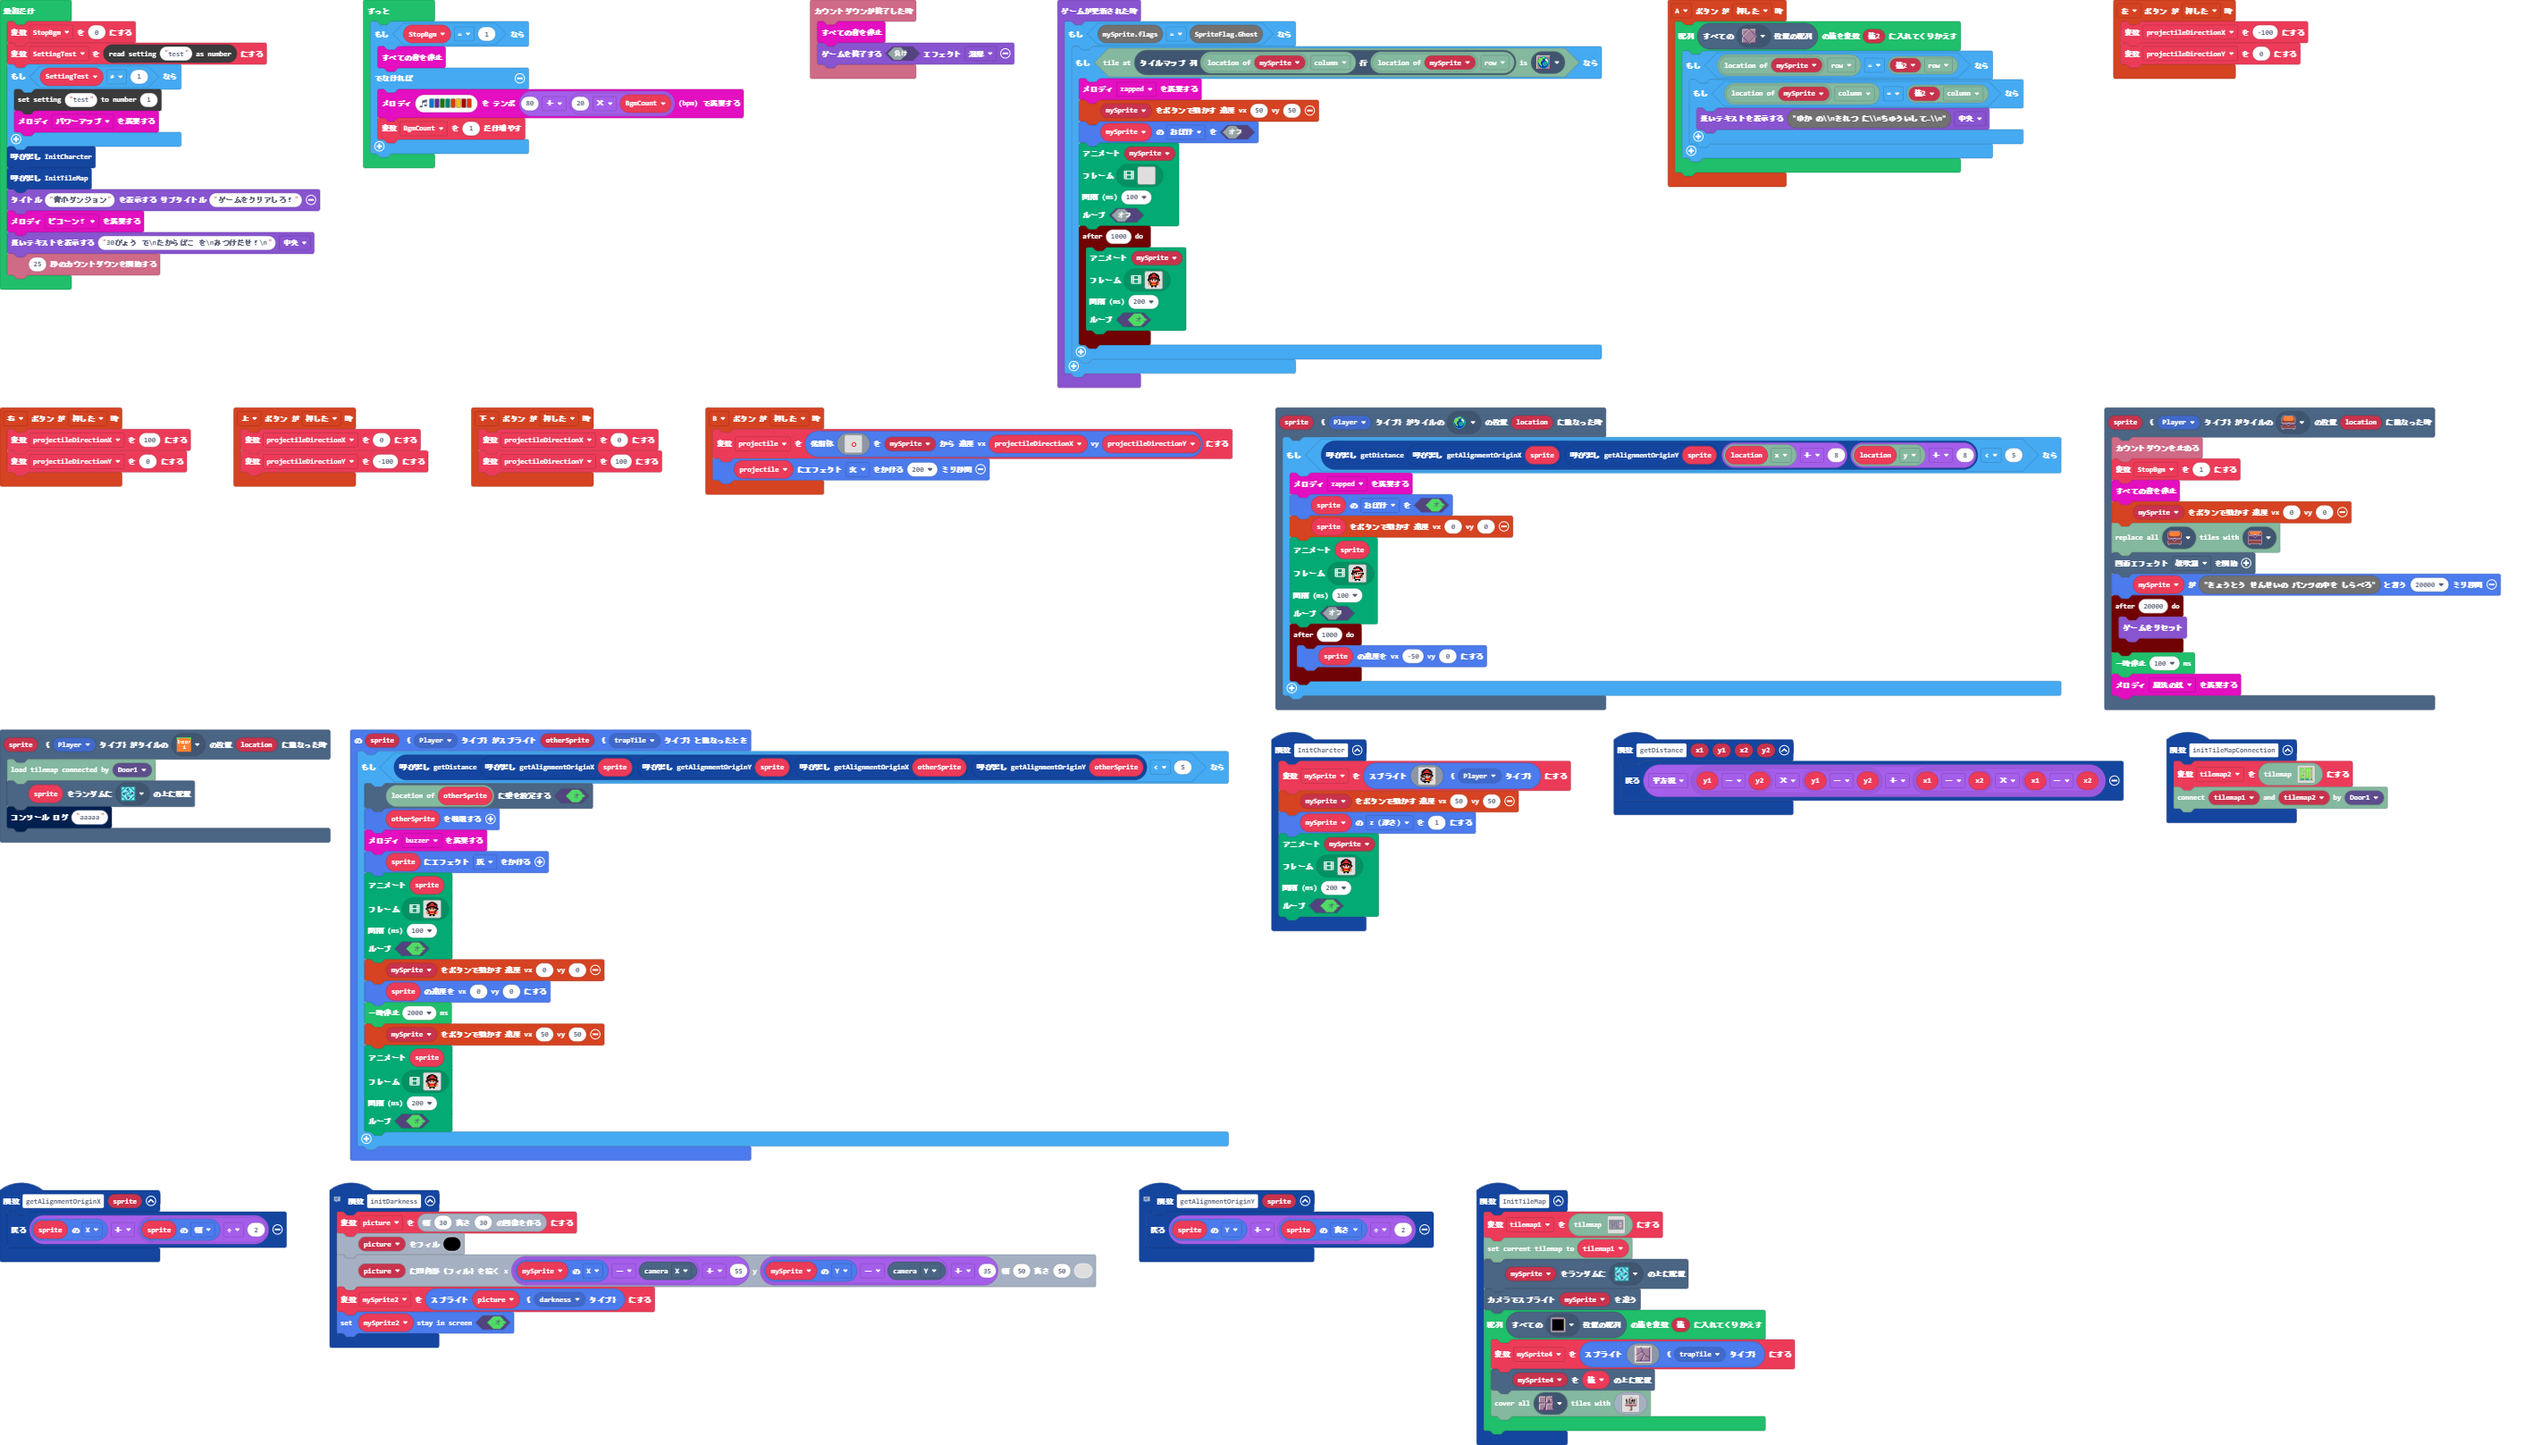
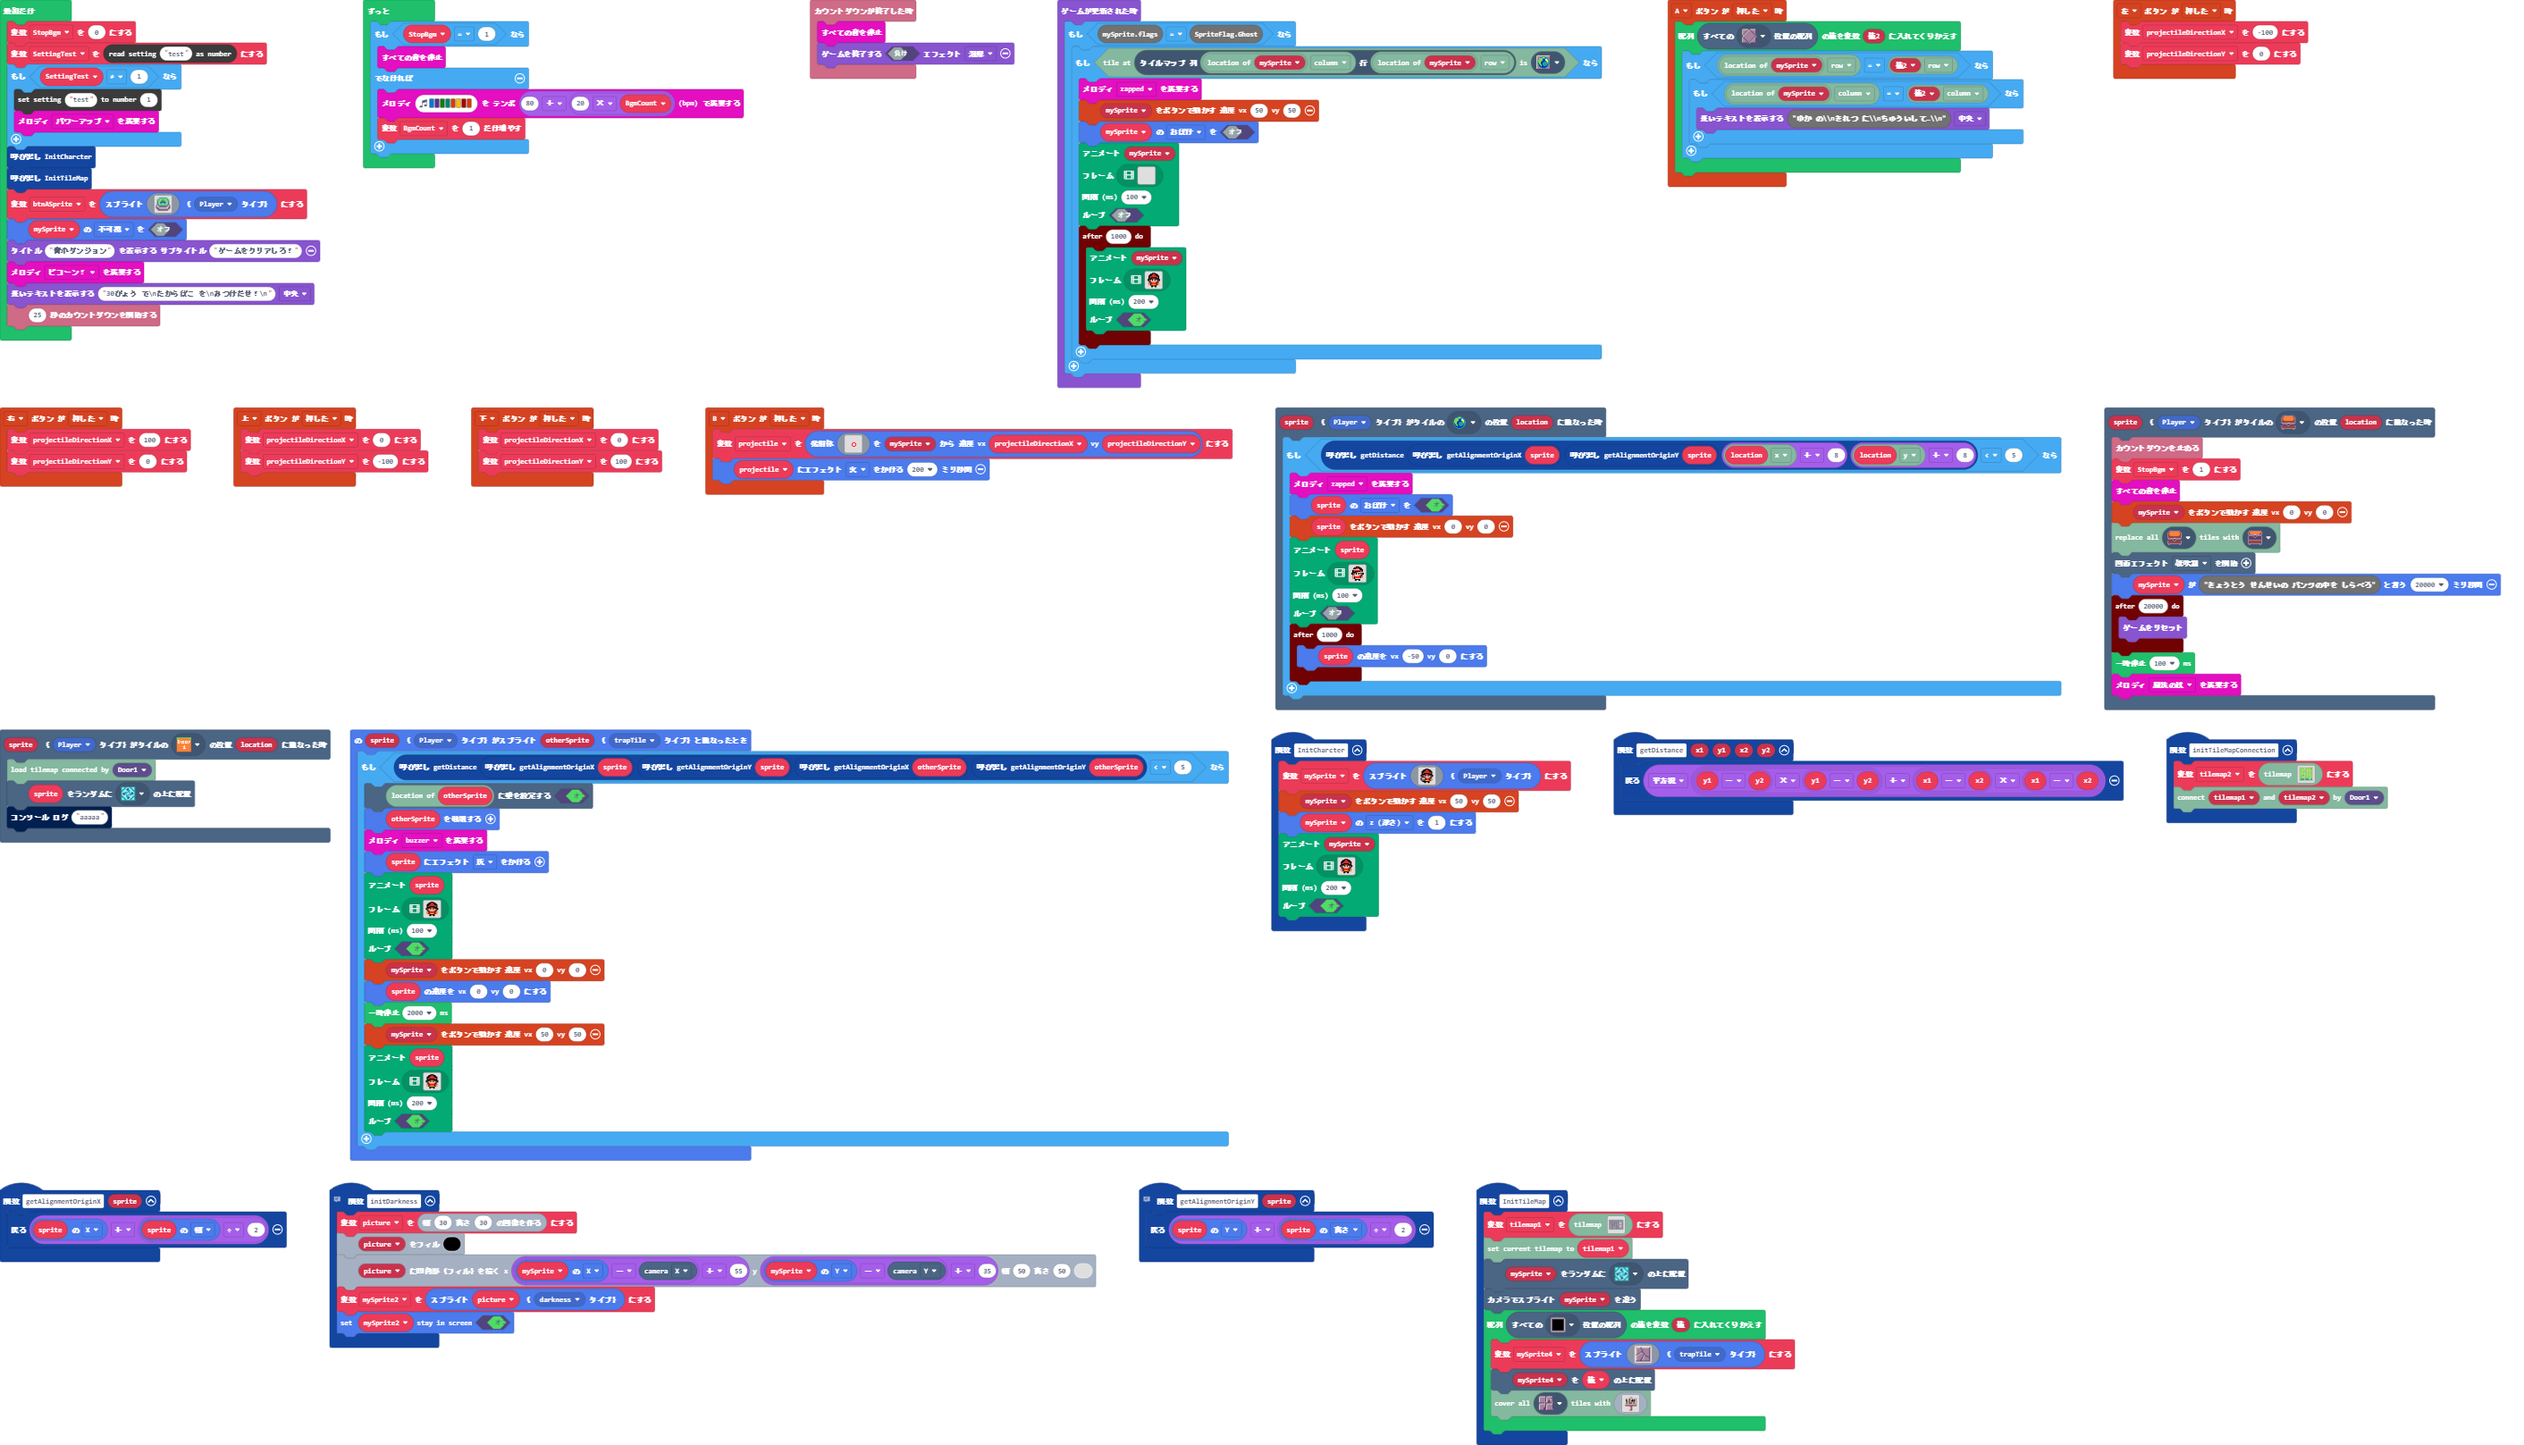
ボタンAの画像作成

Changed region(s): [[0.0, 0.1237, 0.1246, 0.2474]]

diff --git a/main.ts b/main.ts
@@ -179,11 +179,11 @@ let mySprite4: Sprite = null
 let mySprite2: Sprite = null
 let picture: Image = null
 let projectile: Sprite = null
-let mySprite: Sprite = null
 let tilemap1: tiles.WorldMap = null
 let tilemap2: tiles.WorldMap = null
 let projectileDirectionY = 0
 let projectileDirectionX = 0
+let mySprite: Sprite = null
 let StopBgm = 0
 StopBgm = 0
 let SettingTest = blockSettings.readNumber("test")
@@ -193,6 +193,21 @@ if (SettingTest != 1) {
 }
 InitCharcter()
 InitTileMap()
+let btnASprite = sprites.create(img`
+    . . . 6 6 6 6 6 6 6 . . . 
+    . . 6 7 7 7 7 7 7 7 6 . . 
+    . 6 6 7 7 7 8 7 7 7 6 6 . 
+    . 6 7 7 7 8 7 8 7 7 7 6 . 
+    . c 7 7 8 8 8 8 8 7 7 c . 
+    . c 9 7 8 7 7 7 8 7 9 c . 
+    . c 6 9 7 7 7 7 7 9 6 c . 
+    c d c 6 6 6 6 6 6 6 c d c 
+    c d d c c c c c c c d d c 
+    c c b d d d d d d d d c c 
+    . c c b b b b b b b b c . 
+    . . c c c c c c c c c . . 
+    `, SpriteKind.Player)
+mySprite.setFlag(SpriteFlag.Invisible, false)
 game.splash("青小ダンジョン", "ゲームをクリアしろ！")
 music.baDing.play()
 game.showLongText("30びょう で\\nたからばこ を\\nみつけだせ！\\n", DialogLayout.Center)

diff --git a/images.g.ts b/images.g.ts
@@ -41,6 +41,36 @@ c c c c c c c c c c c c c c c a
 . . . . . . . d b e . . . . . . 
 . . . . . . . e e e . . . . . . 
 `;
+            case "image3":
+            case "Temporary asset":return img`
+. . . 6 6 6 6 6 6 6 . . . 
+. . 6 7 7 7 7 7 7 7 6 . . 
+. 6 6 7 7 7 8 7 7 7 6 6 . 
+. 6 7 7 7 8 7 8 7 7 7 6 . 
+. c 7 7 8 8 8 8 8 7 7 c . 
+. c 9 7 8 7 7 7 8 7 9 c . 
+. c 6 9 7 7 7 7 7 9 6 c . 
+c d c 6 6 6 6 6 6 6 c d c 
+c c b c c c c c c c d c c 
+. c c b b b b b b b b c . 
+. . c c c c c c c c c . . 
+. . . . . . . . . . . . . 
+`;
+            case "image4":
+            case "Temporary asset0":return img`
+. . . . . . . . . . . . . 
+. . . . 6 6 6 6 6 . . . . 
+. . 6 6 6 7 7 7 6 6 6 . . 
+. 6 6 7 7 7 8 7 7 7 6 6 . 
+. 6 7 7 7 8 7 8 7 7 7 6 . 
+. 6 7 7 8 8 8 8 8 7 7 6 . 
+. 6 9 7 8 7 7 7 8 7 9 6 . 
+c d 6 9 7 7 7 7 7 9 6 d c 
+c c d 6 6 6 6 6 6 6 d c c 
+. c c b b b b b b b b c . 
+. . c c c c c c c c c . . 
+. . . . . . . . . . . . . 
+`;
         }
         return null;
     })
